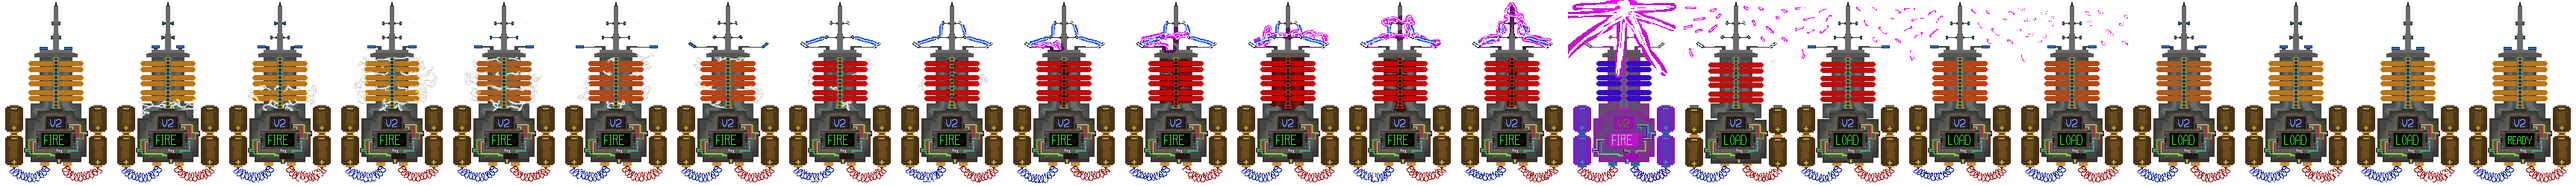
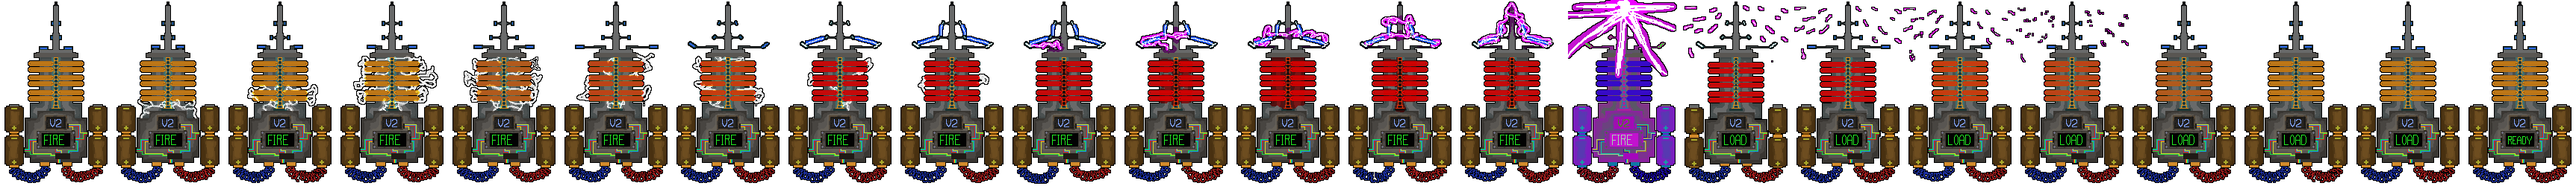
t7 art

diff --git a/scripts/game.js b/scripts/game.js
@@ -34,6 +34,7 @@ let tw;
 let start;
 let finish;
 let globalTime;
+let casingEmitter;
 
 let LEVEL = 0;
 let WAVE = 0;
@@ -62,12 +63,12 @@ let nextEnemy = 0;
 let waveIndex = 0;
 
 const TOWER_PRICES = [150,400,500,500,750,600,2500,3000];
-const TOWER_SPEED = [700,1300,2000,1700,2200,1000,100,1000];
+const TOWER_SPEED = [700,1300,2000,2300,2200,1000,100,1000];
 const TOWER_RANGE = [400,350,300,2000,300,550,500,2000];
 const TOWER_DESCRIPTION = ['Laser - Basic turret',
                             'Electric - Slows enemies on hit',
                             'Canon - Slow but lethal, instantly destroy barriers',
-                            'Rail - Huge damage, sees the entire map and hidden enemies',
+                            'Rail - Massive damage, sees the entire map and hidden enemies',
                             'Multishot - Fires 5 projectiles at once',
                             'Thermal - Sees hidden enemies',
                             'Rapid - Massive firing rate',
@@ -75,7 +76,7 @@ const TOWER_DESCRIPTION = ['Laser - Basic turret',
 const TOWER_UPGRADE_DESCRIPTION = ['+range, +firerate, see hidden enemies',
                                     '+firerate, Stun enemies on hit',
                                     '+firerate, bigger explosions',
-                                    '+firerate, instantly destroy barriers',
+                                    '+firerate, +damage',
                                     '+range, +damage, 7 projectiles at once',
                                     '+firerate, projectile divides into 3 on hit',
                                     '+damage, see hidden enemies',
@@ -88,7 +89,7 @@ const TOWER_DAMAGE = [50,10,500,200,50,100,40,1000,
 const PROJECTILE_SPEED = [500,600,450,4000,300,600,700,1000,
                           500,600,300,400,500,600,700,1000,
                           200, 300];
-const PROJECTILE_LIFESPAN = [500,500,1500,1000,1200,500,500,500,
+const PROJECTILE_LIFESPAN = [500,500,1500,1000,1200,500,600,500,
                              500,500,500,500,500,500,500,500,
                              700, 200];
 const TOWER_FREEZETIME = 2000;
@@ -182,6 +183,9 @@ function preload(){
     this.load.spritesheet('t3', 'assets/graphics/towers/t3.png' ,{frameHeight: 120, frameWidth: 80});
     this.load.spritesheet('t4', 'assets/graphics/towers/t4.png' ,{frameHeight: 250, frameWidth: 150});
 
+    this.load.spritesheet('t7', 'assets/graphics/towers/t7.png' ,{frameHeight: 100, frameWidth: 100});
+    this.load.spritesheet('t7_idle', 'assets/graphics/towers/t7_idle.png' ,{frameHeight: 100, frameWidth: 100});
+
     //projectiles
     this.load.spritesheet('p1', 'assets/graphics/projectiles/p1.png' ,{frameHeight: 20, frameWidth: 20});
     this.load.spritesheet('p1_destroy', 'assets/graphics/projectiles/p1_destroy.png' ,{frameHeight: 20, frameWidth: 20});
@@ -191,6 +195,8 @@ function preload(){
     this.load.spritesheet('p3_destroy', 'assets/graphics/projectiles/p3_destroy.png' ,{frameHeight: 20, frameWidth: 20});
     this.load.spritesheet('p4', 'assets/graphics/projectiles/p4.png' ,{frameHeight: 20, frameWidth: 20});
     this.load.spritesheet('p4_destroy', 'assets/graphics/projectiles/p4_destroy.png' ,{frameHeight: 20, frameWidth: 20});
+    this.load.spritesheet('p7', 'assets/graphics/projectiles/p7.png' ,{frameHeight: 4, frameWidth: 20});
+    this.load.spritesheet('p7_destroy', 'assets/graphics/projectiles/p7_destroy.png' ,{frameHeight: 20, frameWidth: 20});
     this.load.spritesheet('p17_destroy', 'assets/graphics/projectiles/p17_destroy.png' ,{frameHeight: 40, frameWidth: 40});
 
 }
@@ -310,11 +316,6 @@ let AnimatedObject = new Phaser.Class({
 });
 
 let Tower = new Phaser.Class({
-    /*Tower IDs:
-    1. laser
-    2. electric
-    3. canon
-     */
     Extends: Phaser.GameObjects.Sprite,
 
     initialize:
@@ -356,6 +357,9 @@ let Tower = new Phaser.Class({
                 case 3: level3[i][j] = this.TowerType;break;
             }
             this.alpha = 0;
+            if(this.TowerType == 7){
+                this.play('t7_idle');
+            }
             if(this.TowerType != 4){
                 this.scaleX = 2;
                 this.scaleY = 2;
@@ -369,6 +373,7 @@ let Tower = new Phaser.Class({
                     repeat: 0
                 });
             }else{
+                this.setTexture('t4', 22);
                 this.scaleX = 1;
                 this.scaleY = 1;
                 tw.add({
@@ -411,6 +416,11 @@ let Tower = new Phaser.Class({
             switch(this.TowerType){
                 case 1: case 3: case 5: case 6: case 7: this.angle = ((angle + Math.PI/2) * Phaser.Math.RAD_TO_DEG ); this.play('t'+this.TowerType+'_fire');break;
             }
+            if(this.TowerType == 7){
+                this.once('animationcomplete', ()=>{
+                    this.play('t7_idle');
+                });
+            }
             //animacia vystrelu
 
         }
@@ -452,9 +462,8 @@ let Bullet = new Phaser.Class({
         this.play('p'+type);
 
         //  we don't need to rotate the bullets as they are round
-        if(this.type == 4){
+        if(this.type == 4 || this.type == 7){
             this.setRotation(angle);
-            console.log("cc");
         }
 
         this.dx = Math.cos(angle);
@@ -519,10 +528,12 @@ function create(){
     //tlacidla nalavo
     for(let i=0; i<8; i++){
         this.add.image(53,75*i+100, 'button').setInteractive().on('pointerdown', () => changeSelectedTower(i+1));
-        if(i!=3){
-            this.add.image(53,75*i+100, 't'+(i+1)).setScale(HUD_ICON_SCALE);
-        }else{
+        if(i==3){
             this.add.image(53,75*i+100, 't'+(i+1)).setScale(HUD_ICON_SCALE*0.5);
+        }else if(i==6){
+            this.add.image(53,75*i+100, 't7_idle').setScale(HUD_ICON_SCALE);
+        }else{
+            this.add.image(53,75*i+100, 't'+(i+1)).setScale(HUD_ICON_SCALE);
         }
         //this.add.text(20,73*i+16, i+1, smallfont);
         this.add.text(24,75*i+117, TOWER_PRICES[i]+'$', smallfont_black).setStroke('#FFE000', 2);
@@ -800,6 +811,11 @@ function nextWave(){
         graphics.alpha = 0.3;
         start.alpha = 0;
         finish.alpha = 0;
+
+        let towers_placed = Towers.getChildren();
+        for(let i = 0; i < towers_placed.length; i++) {
+            towers_placed[i].nextTic = globalTime+500*Math.random();
+        }
     }else{nextLevel();console.log('no more waves in array!')}
 }
 
@@ -939,6 +955,9 @@ function generateAnims(){
     game.anims.create({key: "t3_fire", frameRate: 15, frames: game.anims.generateFrameNumbers("t3",{start:0, end:10}), repeat: 0});
     game.anims.create({key: "t4_charge", frameRate: 15, frames: game.anims.generateFrameNumbers("t4",{start:0, end:13}), repeat: 0});
     game.anims.create({key: "t4_fire", frameRate: 15, frames: game.anims.generateFrameNumbers("t4",{start:14, end:22}), repeat: 0});
+
+    game.anims.create({key: "t7_idle", frameRate: 7, frames: game.anims.generateFrameNumbers("t7_idle",{start:0, end:1}), repeat: -1});
+    game.anims.create({key: "t7_fire", frameRate: 24, frames: game.anims.generateFrameNumbers("t7",{start:0, end:2}), repeat: 0});
     //projectiles
     game.anims.create({key: "p1", frameRate: 15, frames: game.anims.generateFrameNumbers("p1",{start:0, end:6}), repeat: -1});
     game.anims.create({key: "p1_destroy", frameRate: 15, frames: game.anims.generateFrameNumbers("p1_destroy",{start:0, end:4}), repeat: 0});
@@ -948,6 +967,8 @@ function generateAnims(){
     game.anims.create({key: "p3_destroy", frameRate: 10, frames: game.anims.generateFrameNumbers("p3_destroy",{start:3, end:6}), repeat: 0});
     game.anims.create({key: "p4", frameRate: 60, frames: game.anims.generateFrameNumbers("p4",{start:0, end:4}), repeat: -1});
     game.anims.create({key: "p4_destroy", frameRate: 30, frames: game.anims.generateFrameNumbers("p4_destroy",{start:0, end:3}), repeat: 0});
+    game.anims.create({key: "p7", frameRate: 15, frames: game.anims.generateFrameNumbers("p7",{start:0, end:1}), repeat: -1});
+    game.anims.create({key: "p7_destroy", frameRate: 30, frames: game.anims.generateFrameNumbers("p7_destroy",{start:0, end:1}), repeat: 0});
 
 
     game.anims.create({key: "p17", frameRate: 15, frames: game.anims.generateFrameNumbers("p17_destroy",{start:1, end:4}), repeat: -1});         //blue electric
